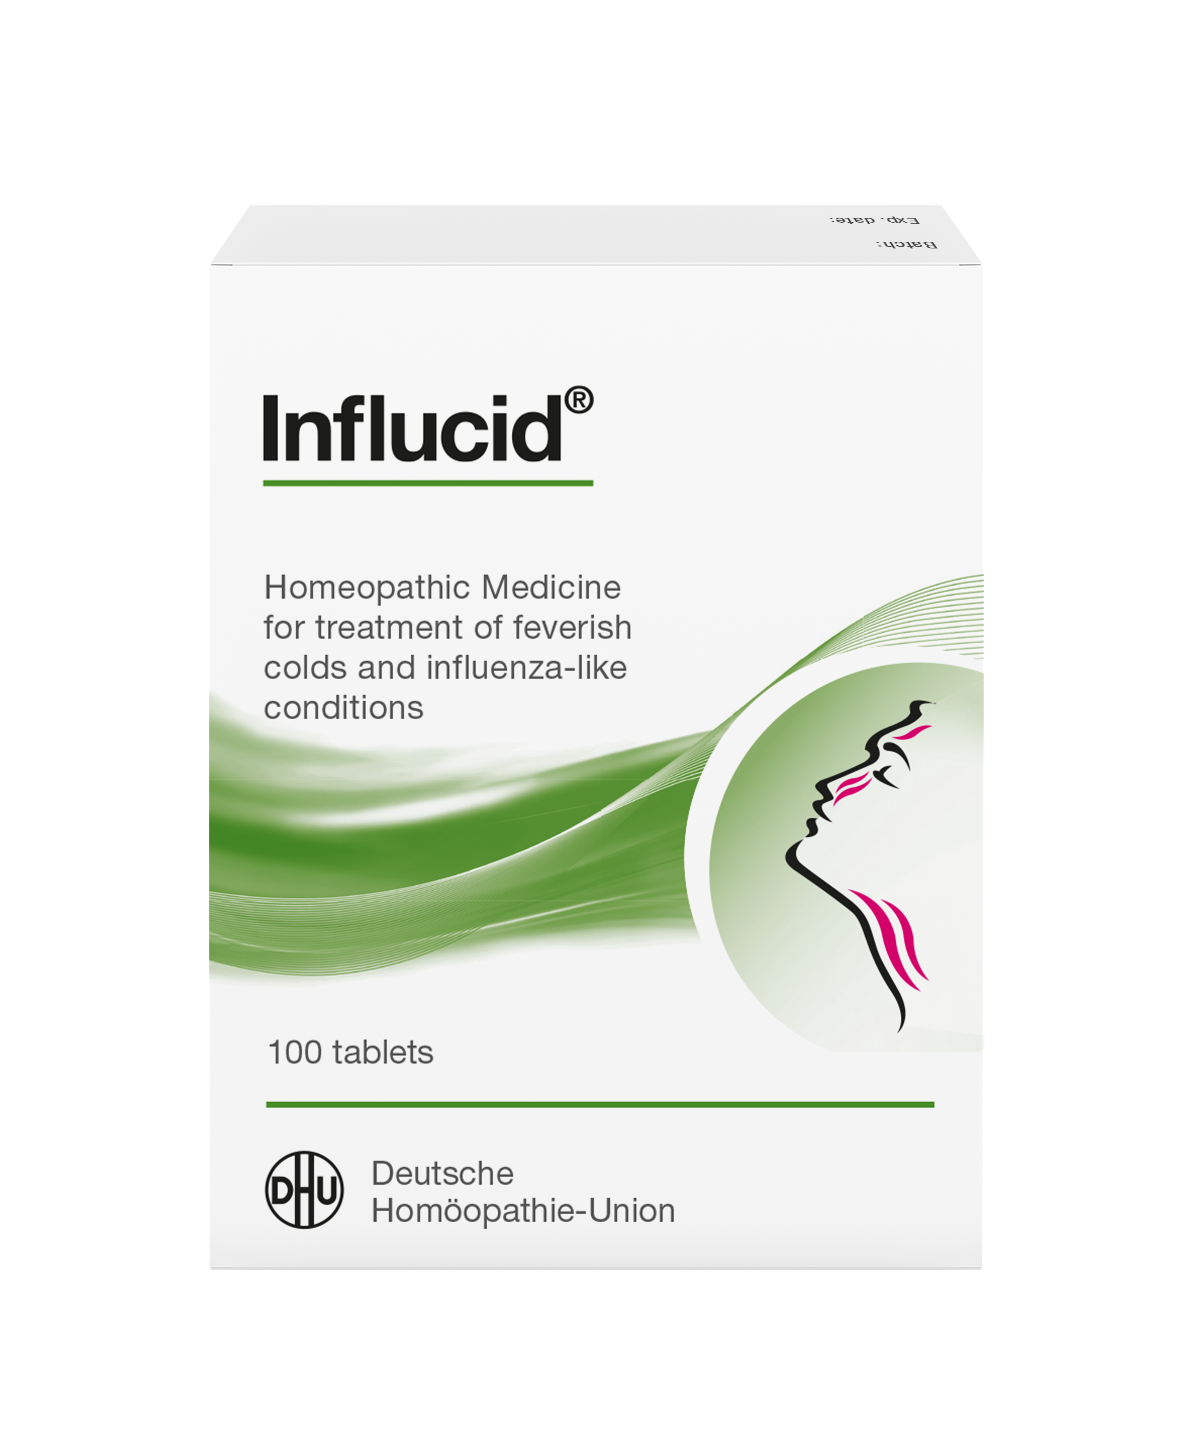
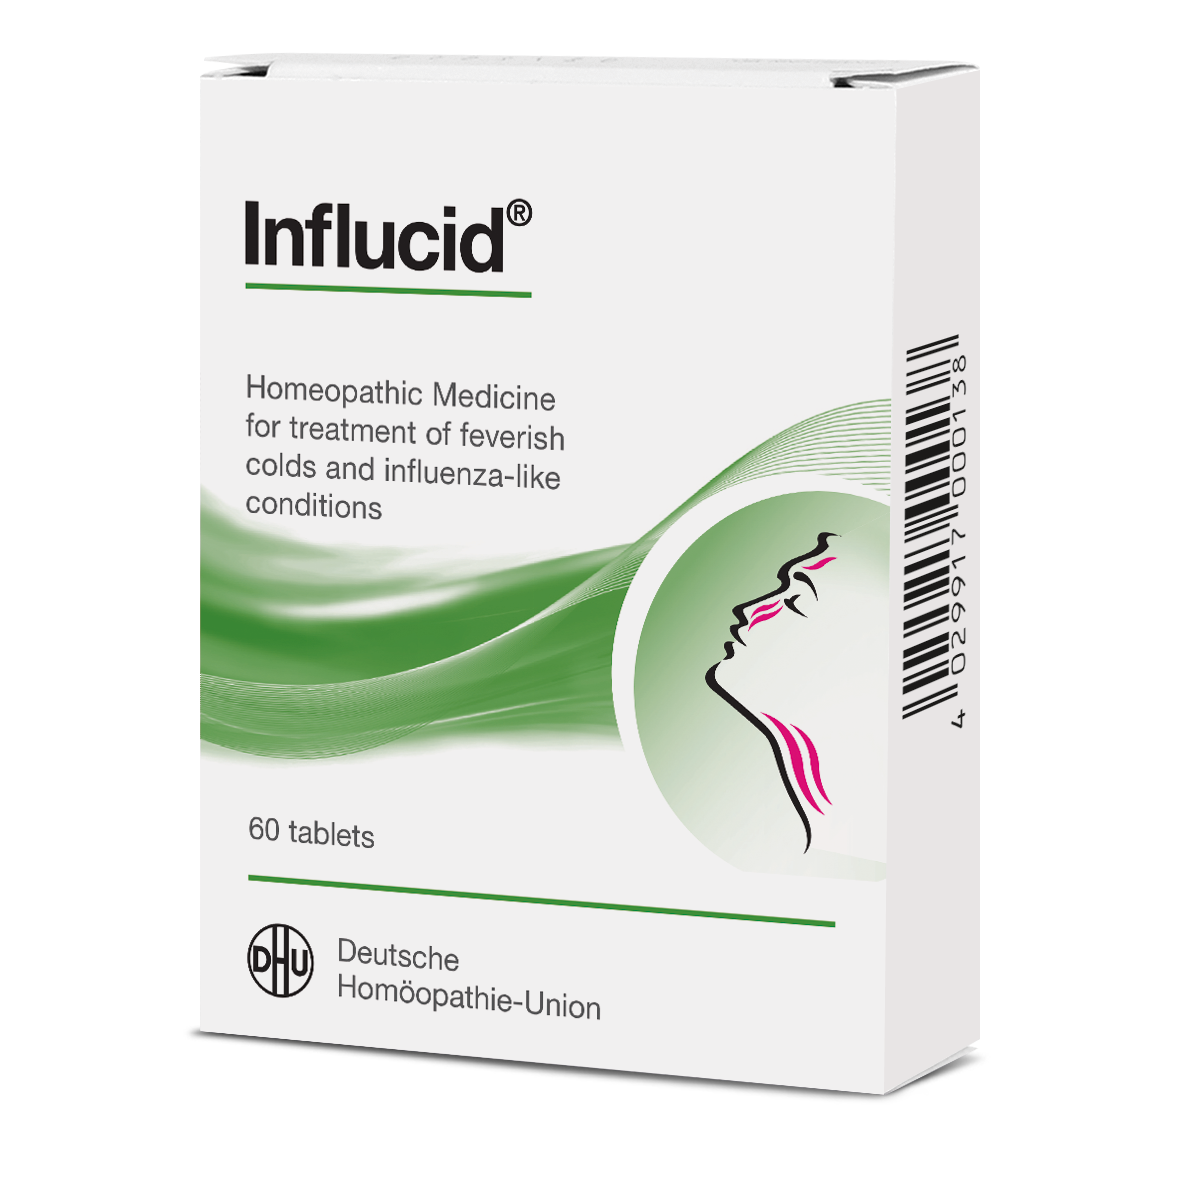
inf-en

Changed region(s): [[0.1524, 0.0305, 0.8535, 0.945]]

diff --git a/influcid-EN/css/style.css b/influcid-EN/css/style.css
@@ -438,7 +438,7 @@ sup {font-size:xx-small; vertical-align:super;}
   width: 300px;
   height: 300px;
   align-self: center;
-  background: url("../images/inf.png")no-repeat center / contain;
+  background: url("../images/INFLU_60RU.png")no-repeat center / contain;
 }
 
 .prod-mobile {
